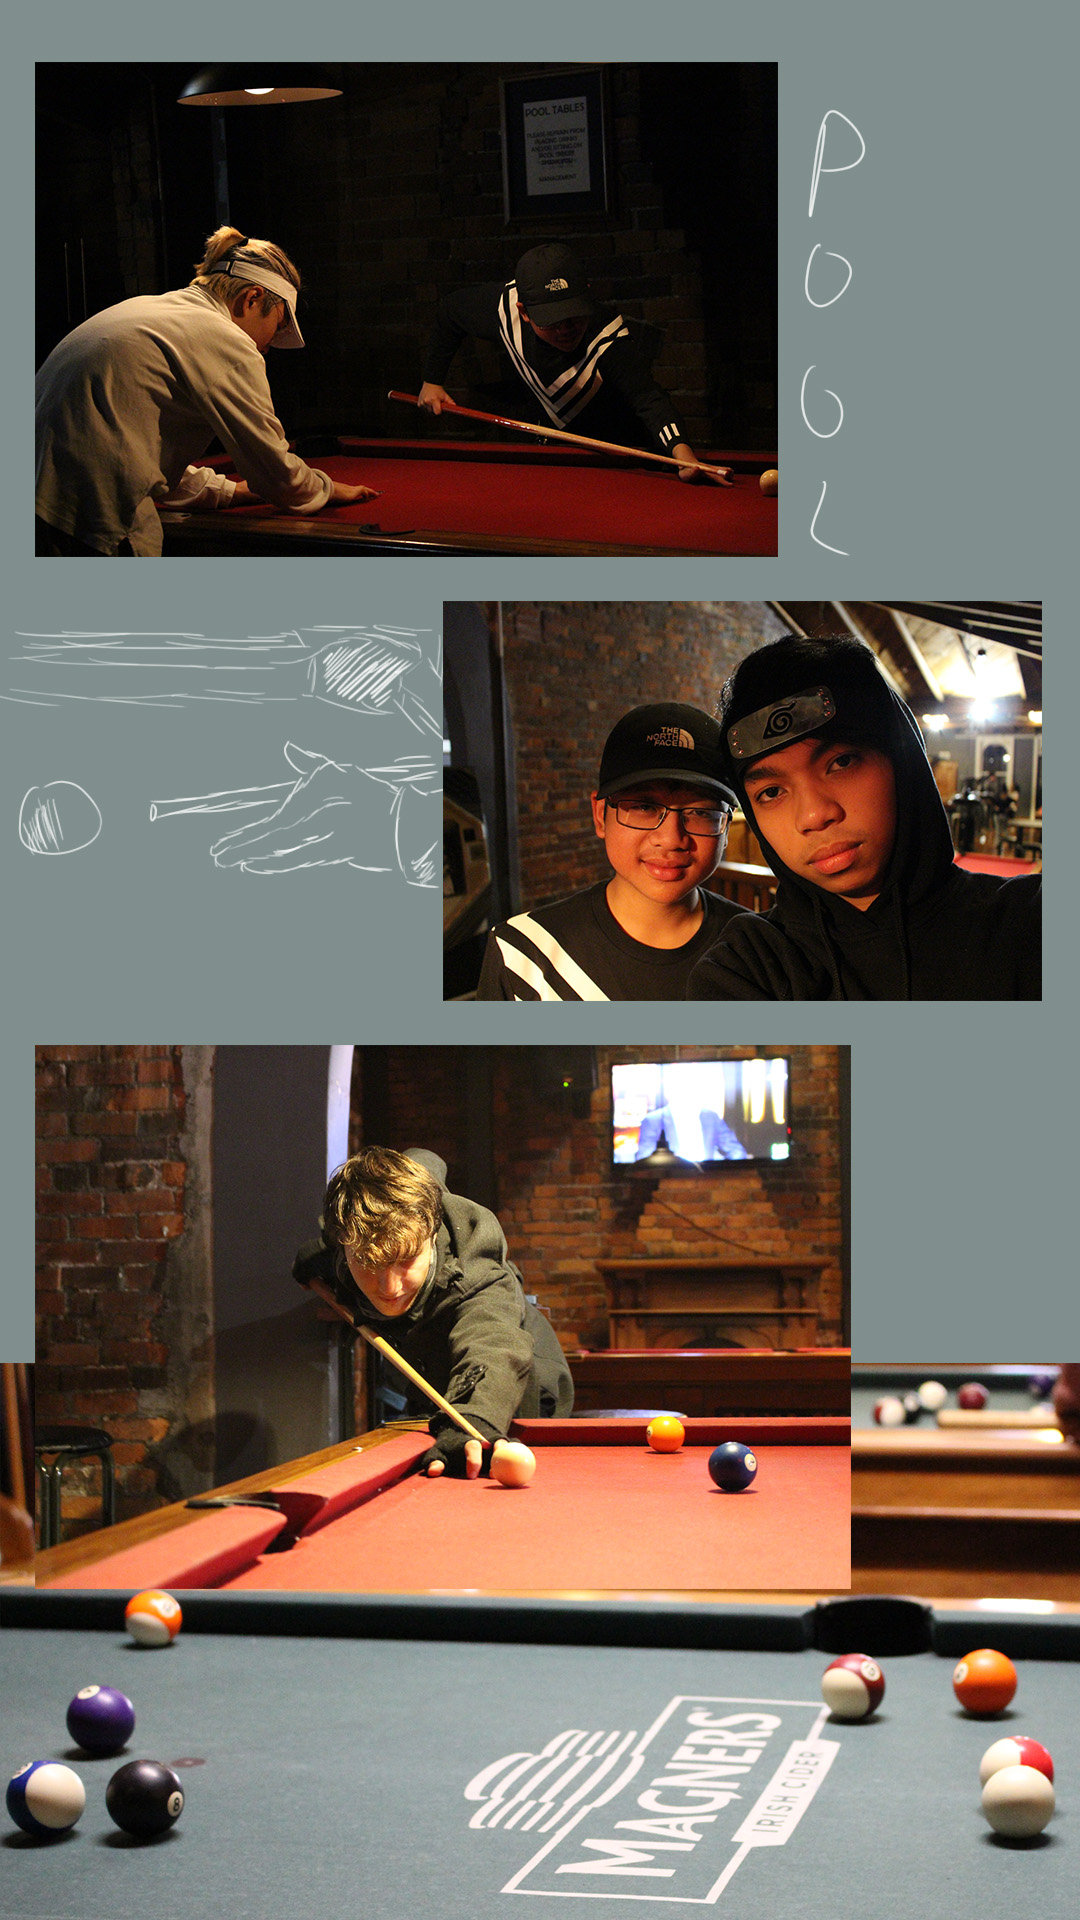
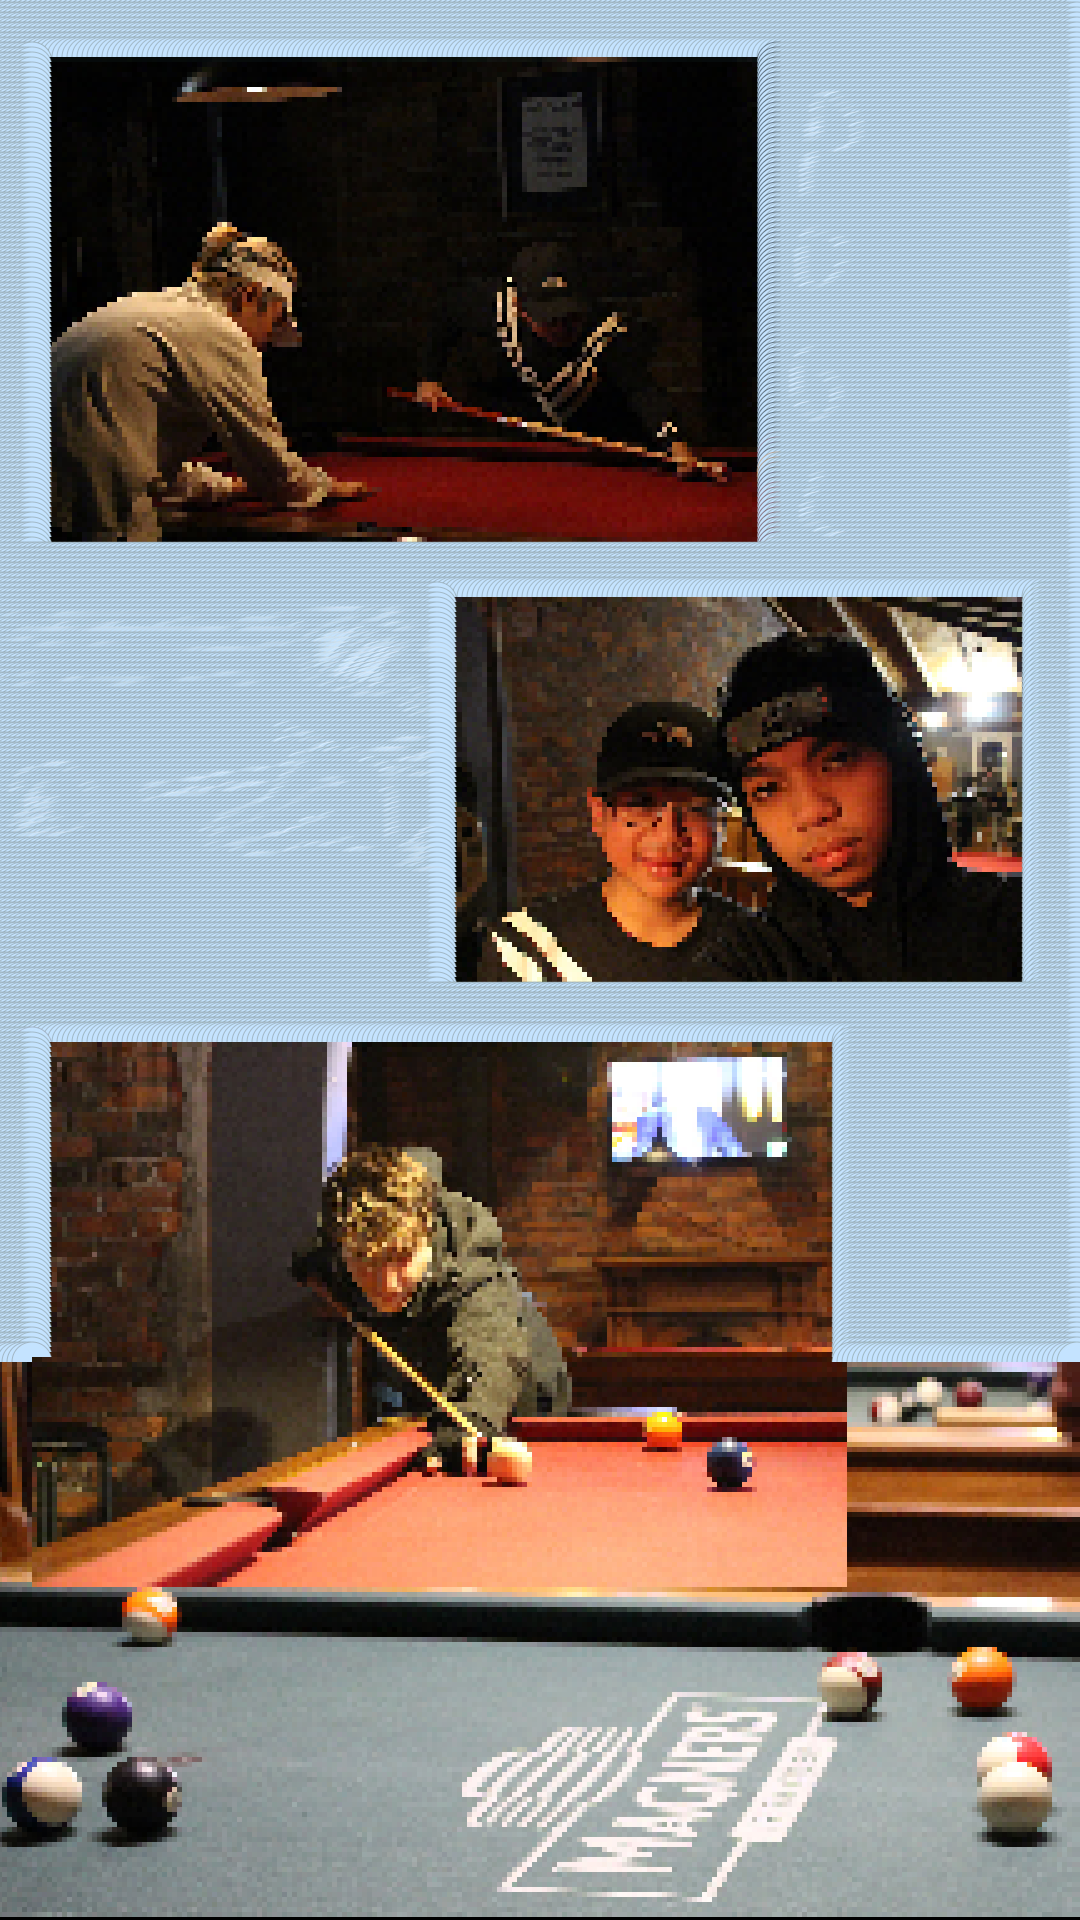
Progress

diff --git a/sketch.js b/sketch.js
@@ -8,9 +8,9 @@ let squareSize = 10;
 
 /* Override some variables with high-resolution final version */
 if (finalVersion) {
-  elementSpacing = 30;
+  elementSpacing = 35;
   circleSize = 5;
-  squareSize = 25;
+  squareSize = 30;
 }
 
 let sourceImg=null;
@@ -46,7 +46,7 @@ function draw () {
     let halfSize = squareSize/2;
     fill(pix);
     if(mask[0] > 128) {
-      ellipse(x, y, circleSize, circleSize);
+      ball(x, y, pix, 0.5);
     }
     else {
       rect(x-halfSize, y-halfSize, squareSize, squareSize);    
@@ -59,7 +59,22 @@ function draw () {
     // saveBlocksImages();
   }
 }
+function ball (x, y, c, s){
+	push();
+	translate(x, y);
+	scale(s);
+  stroke(c);
+	fill(196, 227, 255);
+  ellipse(0, 0, 80, 80);
+  pop();
 
+}
+
+
+
+
+
+   
 function keyTyped() {
   if (key == '!') {
     saveBlocksImages();

diff --git a/README.md b/README.md
@@ -1,16 +1,3 @@
 ## Creative Coding 2: Custom Pixel
 
-Right now I am going with the theme 'friendship'.
-
-These pictures are of me and my friends in different places. These places are places where I socialise are make new or develop my friendships. 
-
-The three areas are skating, pool, and the last image that will be put in will be university.
-
-So I've made a collage of photos that relate to each topic and put photos that I think that are important and have a meaning behind them.
-
-Right now I've rendered one image with very small circle square size because I wanted the images to be visible as possible and the background will be coded with patterns. Hopefully.
-
-My next goal is to add patterns that relate to the topic. For example, skating maybe wheels or skateboard decks, pool just pool balls, and the last image for uni will probably a mixture of emoji expressions, angry, sad, and happy etc.
-
-
-Very precious moments and memories ye. 
+So far I am testing out different patterns and colours to see which one is best suited for the topic and which one I like the most.
